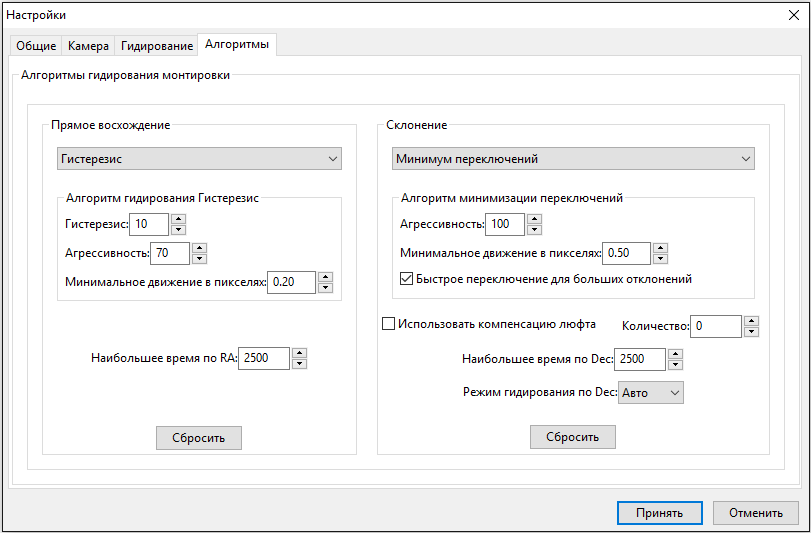
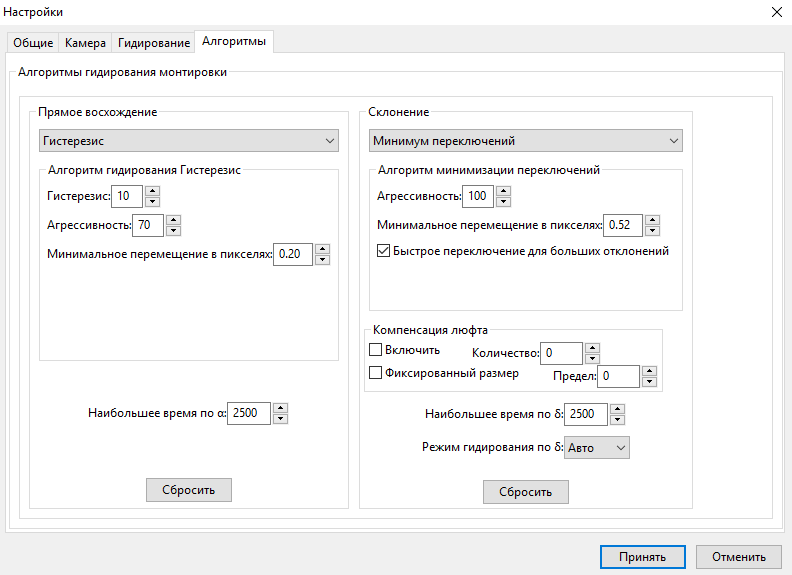
Update Russian help (advanced settings).

Changed region(s): [[0.0, 0.0, 1.0, 1.0], [0.0909, 0.6604, 0.3939, 0.7505], [0.9091, 0.5704, 0.9394, 0.6304]]

diff --git a/locale/ru_RU/help/Advanced_settings.htm b/locale/ru_RU/help/Advanced_settings.htm
@@ -57,7 +57,6 @@
       </ul>
       Подробнее см. в разделе <a href="Tools.htm#Software_Update">Обновление
 
-
         ПО</a>.
       <li>'<a name="Image_format"></a>Формат логгирования изображений' -
         задаёт формат файлов&nbsp;при логгировании звёздных изображений</li>
@@ -168,11 +167,24 @@
           устойчивость к колебаниям ниже уровня 3.0.</li>
       </ul>
       <li>'<a name="Pixel_size"></a>Размер пикселей' - Размер пикселей
-        гидирующей камеры в микронах. Это второй из двух параметров, на
+        гидирующей камеры в микронах. Это один из двух параметров, на
         основании которых <span style="font-style: italic;">PHD2</span>
         вычисляет масштаб изображения и выводит статистику в угловых
-        секундах. &nbsp;Значение этого параметра можно узнать из
-        документации к камере.</li>
+        секундах (другой - фокусное расстояние гидирующего телескопа -
+        задаётся во вкладке 'Гидирование'). &nbsp;Значение этого
+        параметра можно узнать из документации к камере. В случае
+        неквадратных пикселей можно выбрать одно из измерений или
+        среднее между ними. Эта величина не влияет на точность
+        гидирования, поэтому небольшая неточность не повлечёт каких-либо
+        проблем. При использовании биннинга нужно использовать
+        оригинальный размер пикселя. <b>Замечание:</b> изменение
+        параметра может быть недоступно если драйвер камеры может
+        сообщить PHD2 размер пикселя. В этом случае вы увидите
+        полученное от драйвера значение. При задании коэффициента
+        биннинга на камере, а не в PHD2 прочитанный размер пикселя может
+        измениться тоже. Поэтому следует задавать биннинг в PHD2 ( см.
+        ниже).<br>
+      </li>
       <li>'<a name="Camera_gain"></a>Чувствительность камеры' -
         Устанавливает уровень чувствительности для камер, поддерживающих
         эту возможность.&nbsp;Если вы хотите гидировать по яркой звезде
@@ -205,35 +217,23 @@
       </li>
       <li><a name="Binning_setting"></a>Биннинг - для камер,
         поддерживающих аппаратный биннинг можно задать его
-        значение.&nbsp; Более детально это рассматривается дальше.&nbsp;
+        значение.&nbsp; Более детально это рассматривается дальше. Этот
+        параметр появится только если камера подключена к PHD2 и
+        поддерживает аппаратный биннинг.<br>
       </li>
       <li>'<a name="Use_subframes"></a>Использовать подкадры' - Камеры,
         поддерживающие эту возможность<span style="font-style: italic;">PHD2</span>
         будут передавать только подкадр каждой экспозиции.&nbsp;Это
         очень полезно для камер с низкой скоростью передачи данных.
         Когда этот параметер задан, после выбора звезды передаются
-        только маленькие подкадры (100x100 пикселей). Это относится и к
-        калибровке и к гидированию. &nbsp;Пока звезда ещё не выбрана,
-        передаётся полный кадр, но сразу после её выбора передаются
-        маленькие подкадры. &nbsp; Если вы используете подкадры, но
-        хотите использовать полный кадр, чтобы выбрать другую звезду,
-        просто щёлкните где-нибудь за пределами подкадра.</li>
+        только маленькие подкадры. Это относится и к калибровке и к
+        гидированию. &nbsp;Пока звезда ещё не выбрана, передаётся полный
+        кадр, но сразу после её выбора передаются маленькие подкадры.
+        &nbsp; Если вы используете подкадры, но хотите использовать
+        полный кадр, чтобы выбрать другую звезду, при нажатой клавише
+        shift щёлкните где-нибудь в пределах окна.</li>
     </ul>
     <span style="font-weight: bold;"><a name="Binning_usage"></a>Использование
-
-
-
-
-
-
-
-
-
-
-
-
-
-
 
 
       биннинга</span><br>
@@ -275,7 +275,7 @@
       href="Visualization.htm#Stats_Display">Статистики</a>,
     показывающим размер кадра и текущие настройки биннинга камеры.
     <h3><a name="Guiding_Tab"></a>Гидирование</h3>
-    <img style="width: 804px; height: 425px;" alt=""
+    <img style="width: 791px; height: 575px;" alt=""
       src="Advanced_guiding.png"><br>
     <br>
     Здесь задаются параметры калибровки, слежения за звездой и поведение
@@ -310,6 +310,13 @@
         при том, что звёзды ясно видны на экране, попробуйте увеличить
         значение этого параметра. &nbsp;Установка его в 100 убирает
         предупреждения полностью.</li>
+      <li>'<a name="Minimum_star_HFD"></a>Минимальный HFD звезды в
+        пикселях' - задаёт минимальный кружок, куда падает половина
+        излучения подходящей опорной звезды. Используется для
+        предотвращения захвата горячих пикселей. Подобрать его можно,
+        выбрав слабую звезду, в которой вы уверены, что это не пиксель и
+        посмотреть HFD в её профиле. <br>
+      </li>
     </ul>
     Калибровка<br>
     <ul>
@@ -339,9 +346,14 @@
         соединений ASCOM или Indi или работе с 'дополнительной'
         монтировкой этот параметр будет установлен автоматически при
         подключении.&nbsp; И наоборот, если у PHD2 нет необходимой
-        информации, параметр будет сброшен автоматически.&nbsp;
-        Поскольку перекалиброваться можно в любое врнемя, вряд ли есть
-        смысл изменять этот параметр вручную..</li>
+        информации, параметр будет сброшен автоматически.&nbsp; Помощник
+        нового оборудования выберет настройки по умолчанию на основе
+        выбранной конфигурации. Учтите, что автовосстановление работает
+        для каждого профиля отдельно и произойдёт только после выбора
+        профиля и подключения к оборудованию. Если вы перед началом
+        сессии гидирования хотите перекалиброваться, то надо сбросить
+        калибровку монтировки (см. ниже) <br>
+      </li>
       <li>''<a name="Assert_Dec_Orthogonal"></a>Считать Dec
         ортогональным RA' - Обычно при калибровочном процессе
         определение углов камеры для прямого восхождения и склонения
@@ -368,7 +380,8 @@
       гидирования по прямому восхождению на основе текущего
       склонения.&nbsp; Деактивировать этот параметр следует лишь для
       особых случаев, например, когда контроллеры монтировки SiTech
-      применяют автоматическую компенсацию..
+      применяют автоматическую компенсацию. Не спутайте этот параметр с
+      'Компенсацией люфта склонения', это совершенно другое.
     </ul>
     Общие параметры гидирования<br>
     <ul>
@@ -382,52 +395,48 @@
         использовать этот параметр необязательно.&nbsp; Если в
         результате быстрой центровки звезда теряется, его нужно
         выключить.&nbsp; Такое бывает при большом отклонении полярной
-        или значительной периодической ошибке прямого восхождения.</li>
+        или значительной периодической ошибке прямого восхождения.
+        Помощник Гидирования может помочь разобраться в сути проблемы.<br>
+      </li>
       <li>'<a name="Reverse_Dec_output_after_meridian_flip"></a>Инвертировать
-
-
-
-
-
-
-
-
-
-
-
-
-
-
         импульсы по склонению после перекладывания меридиана'
         -&nbsp;указывает <span style="font-style: italic;">PHD2</span>
         что делать с калибровочными данными когда используется функция
         "переложить" их. &nbsp;Некоторые монтировки отслеживают это и
         автоматически меняют направление гидирующих импульсов по
-        склонению. &nbsp;Другие, вероятно, большинство, не делают этого.
-        &nbsp;В любом случае <span style="font-style: italic;">PHD2</span>
-        нужно знать поведение монтировки. &nbsp;Эту информацию бывает
-        нелегко найти, поэтому, возможно, что проще всего устроить
-        небольшой эксперимент. &nbsp;Не выбирая этот параметр,
-        откалиброваться с одной стороны меридиана, затем навести
-        монтировку в другую сторону от него. &nbsp;Выбрать
-        &nbsp;'Переложить откалиброванные данные' в меню 'Инструменты
-        -&gt; Изменить калибровку' и начать гидирование. &nbsp;Если
-        гидирование проходит нормально, оставить параметр невыбранным;
-        но если склонение собъётся, выбрать параметр и повторить всю
-        процедуру, включая калибровку<br>
+        склонению, большинство же не делает этого. &nbsp;В любом случае
+        <span style="font-style: italic;">PHD2</span> нужно знать
+        поведение монтировки. &nbsp;Эту информацию бывает нелегко найти,
+        поэтому, возможно, что проще всего устроить небольшой
+        эксперимент. &nbsp;Не выбирая этот параметр, откалиброваться с
+        одной стороны меридиана, затем навести монтировку в другую
+        сторону от него.&nbsp; При работе через ASCOM или Indi или апм
+        использовании "дополнительной" монтировки начните гидирование.
+        При гидировании через ST-4 когда PHD2 не знает координат нужно
+        сначала выбрать &nbsp;'Переложить откалиброванные данные' в меню
+        'Инструменты -&gt; Изменить калибровку' и начать гидирование.
+        &nbsp;Если гидирование проходит нормально, оставить параметр
+        невыбранным; но если склонение собъётся, выбрать параметр и
+        повторить всю процедуру, включая калибровку<br>
       </li>
       <li>'<a name="Enable_guide_output"></a>Включить гидирующие
         импульсы' - обычно этот параметр включен, поскольку он
         заставляет <span style="font-style: italic;">PHD2</span>
         посылать гидирующие команды&nbsp;монтировке. &nbsp;Однако,
         иногда может потребоваться отключить их. Обычно это делают,
-        чтобы пронаблюдать некорректное поведение монтировки.
-        &nbsp;Например, график периодической ошибки или недостаточно
-        точно установленный полюс. </li>
+        чтобы пронаблюдать некорректное поведение монтировки, например,
+        график периодической ошибки или недостаточно точно установленный
+        полюс. </li>
       <li>'<a name="Stop_guiding_on_slew"></a>Остановить гидирование при
         движении монтировки' - при гидировании через интерфейс ASCOM
-        PHD2 может определить движение монтировки и прекратит прсылать
-        гидирующие команды..</li>
+        PHD2 может определить некорректное движение монтировки и
+        прекратит посылать гидирующие команды. Параметр следует
+        включить, если у драйвера монтировки бывают такие проблемы.
+        Обычно наведение с пульта не распознаётся. В любом случае PHD2
+        будет продолжать пытаться отслеживать опорную звезду, поэтому
+        обычным результатом будет потеря звезды, о чём PHD2 просигналит
+        звуком и визуально.<br>
+      </li>
     </ul>
     <ul>
     </ul>
@@ -438,20 +447,6 @@
       src="Advanced_calstep_calculator.png"><br>
     <span style="font-size: 10pt; font-family: Arial;"></span><br>
     Чтобы использовать <a name="Calculator_auto-step-size"></a>калькулятор,
-
-
-
-
-
-
-
-
-
-
-
-
-
-
     три верхних поля должны быть корректно заполнены. &nbsp;Если
     фокусное расстояние и размер пикселей камеры уже были введены в
     закладках 'Общие' и 'Камера' соответственно, эти значения появятся и
@@ -474,7 +469,12 @@
     сделанные в калькуляторе изменения будут отражены и там. &nbsp; При
     нажатии кнопки 'Отменить' этого не произойдёт. Имейте в виду, что
     PHD2 никогда не меняет настройки скорости гидирования монтировки,
-    независимо от того, что введено в поле 'Скорость гидирования'.
+    независимо от того, что введено в поле 'Скорость гидирования'.<br>
+    <br>
+    Целью подсчёта является размер шага, обеспечивающий точное
+    гидирование без потери времени.&nbsp; Здесь нет большой точности и
+    ничего магического.&nbsp; Калибровка достаточно хороша, если нет
+    предупредительных сообщений.
     <h3><a name="Algorithms_Tab"></a>Алгоритмы<br>
     </h3>
     <span style="font-size: 10pt; font-family: Arial;"></span><img
@@ -489,7 +489,7 @@
     Оставшиеся независимые от алгоритма гидирования параметры описаны
     ниже: &nbsp;
     <ul>
-      <li>'<a name="Max_Duration_RA"></a>Максимальная длительность RA' -
+      <li>'<a name="Max_Duration_RA"></a>Наибольшее время по α' -
         определяет максимальную продолжительность гидирующего импульса
         для прямого восхождения. &nbsp;Его можно задать ниже величины по
         умолчанию, чтобы избежать больших отклонений, вызванных ложными
@@ -508,12 +508,12 @@
         монтировке должна быть выключена.&nbsp; Подробнее см. раздел
         справки <a href="Tools.htm#Guiding_Assistant">Помощник
           гидирования</a>.</li>
-      <li>"<a name="Max_Duration_Declination"></a>Mаксимальная
-        длительность по склонению' - определяет максимальную
-        продолжительность гидирующего импульса для склонения (по
-        аналогии с предыдущим параметром).&nbsp; Это может быть
-        полезным, чтобы избежать избыточной корректировки с последующим
-        переключением направления при гидировании по склонению.</li>
+      <li>"<a name="Max_Duration_Declination"></a>Наибольшее время по δ'
+        - определяет максимальную продолжительность гидирующего импульса
+        для склонения (по аналогии с предыдущим параметром).&nbsp; Это
+        может быть полезным, чтобы избежать избыточной корректировки с
+        последующим переключением направления при гидировании по
+        склонению.</li>
       <li>'<a name="Dec_guide_mode"></a>Режим гидирования по склонению'
         - предоставляет дополнительную возможность управления
         гидированием по склонению.&nbsp; В отличие от гидирования по
@@ -541,20 +541,6 @@
         придётся это повторить.</li>
     </ul>
     <h4><a name="Declination-Uni-directional_guiding"></a>Однонаправленное
-
-
-
-
-
-
-
-
-
-
-
-
-
-
       гидирование по склонению</h4>
     Как обсуждалось в другом месте, люфт склонения некоторых монтировок
     слишком велик для успешного гидирования в обоих направлениях:
